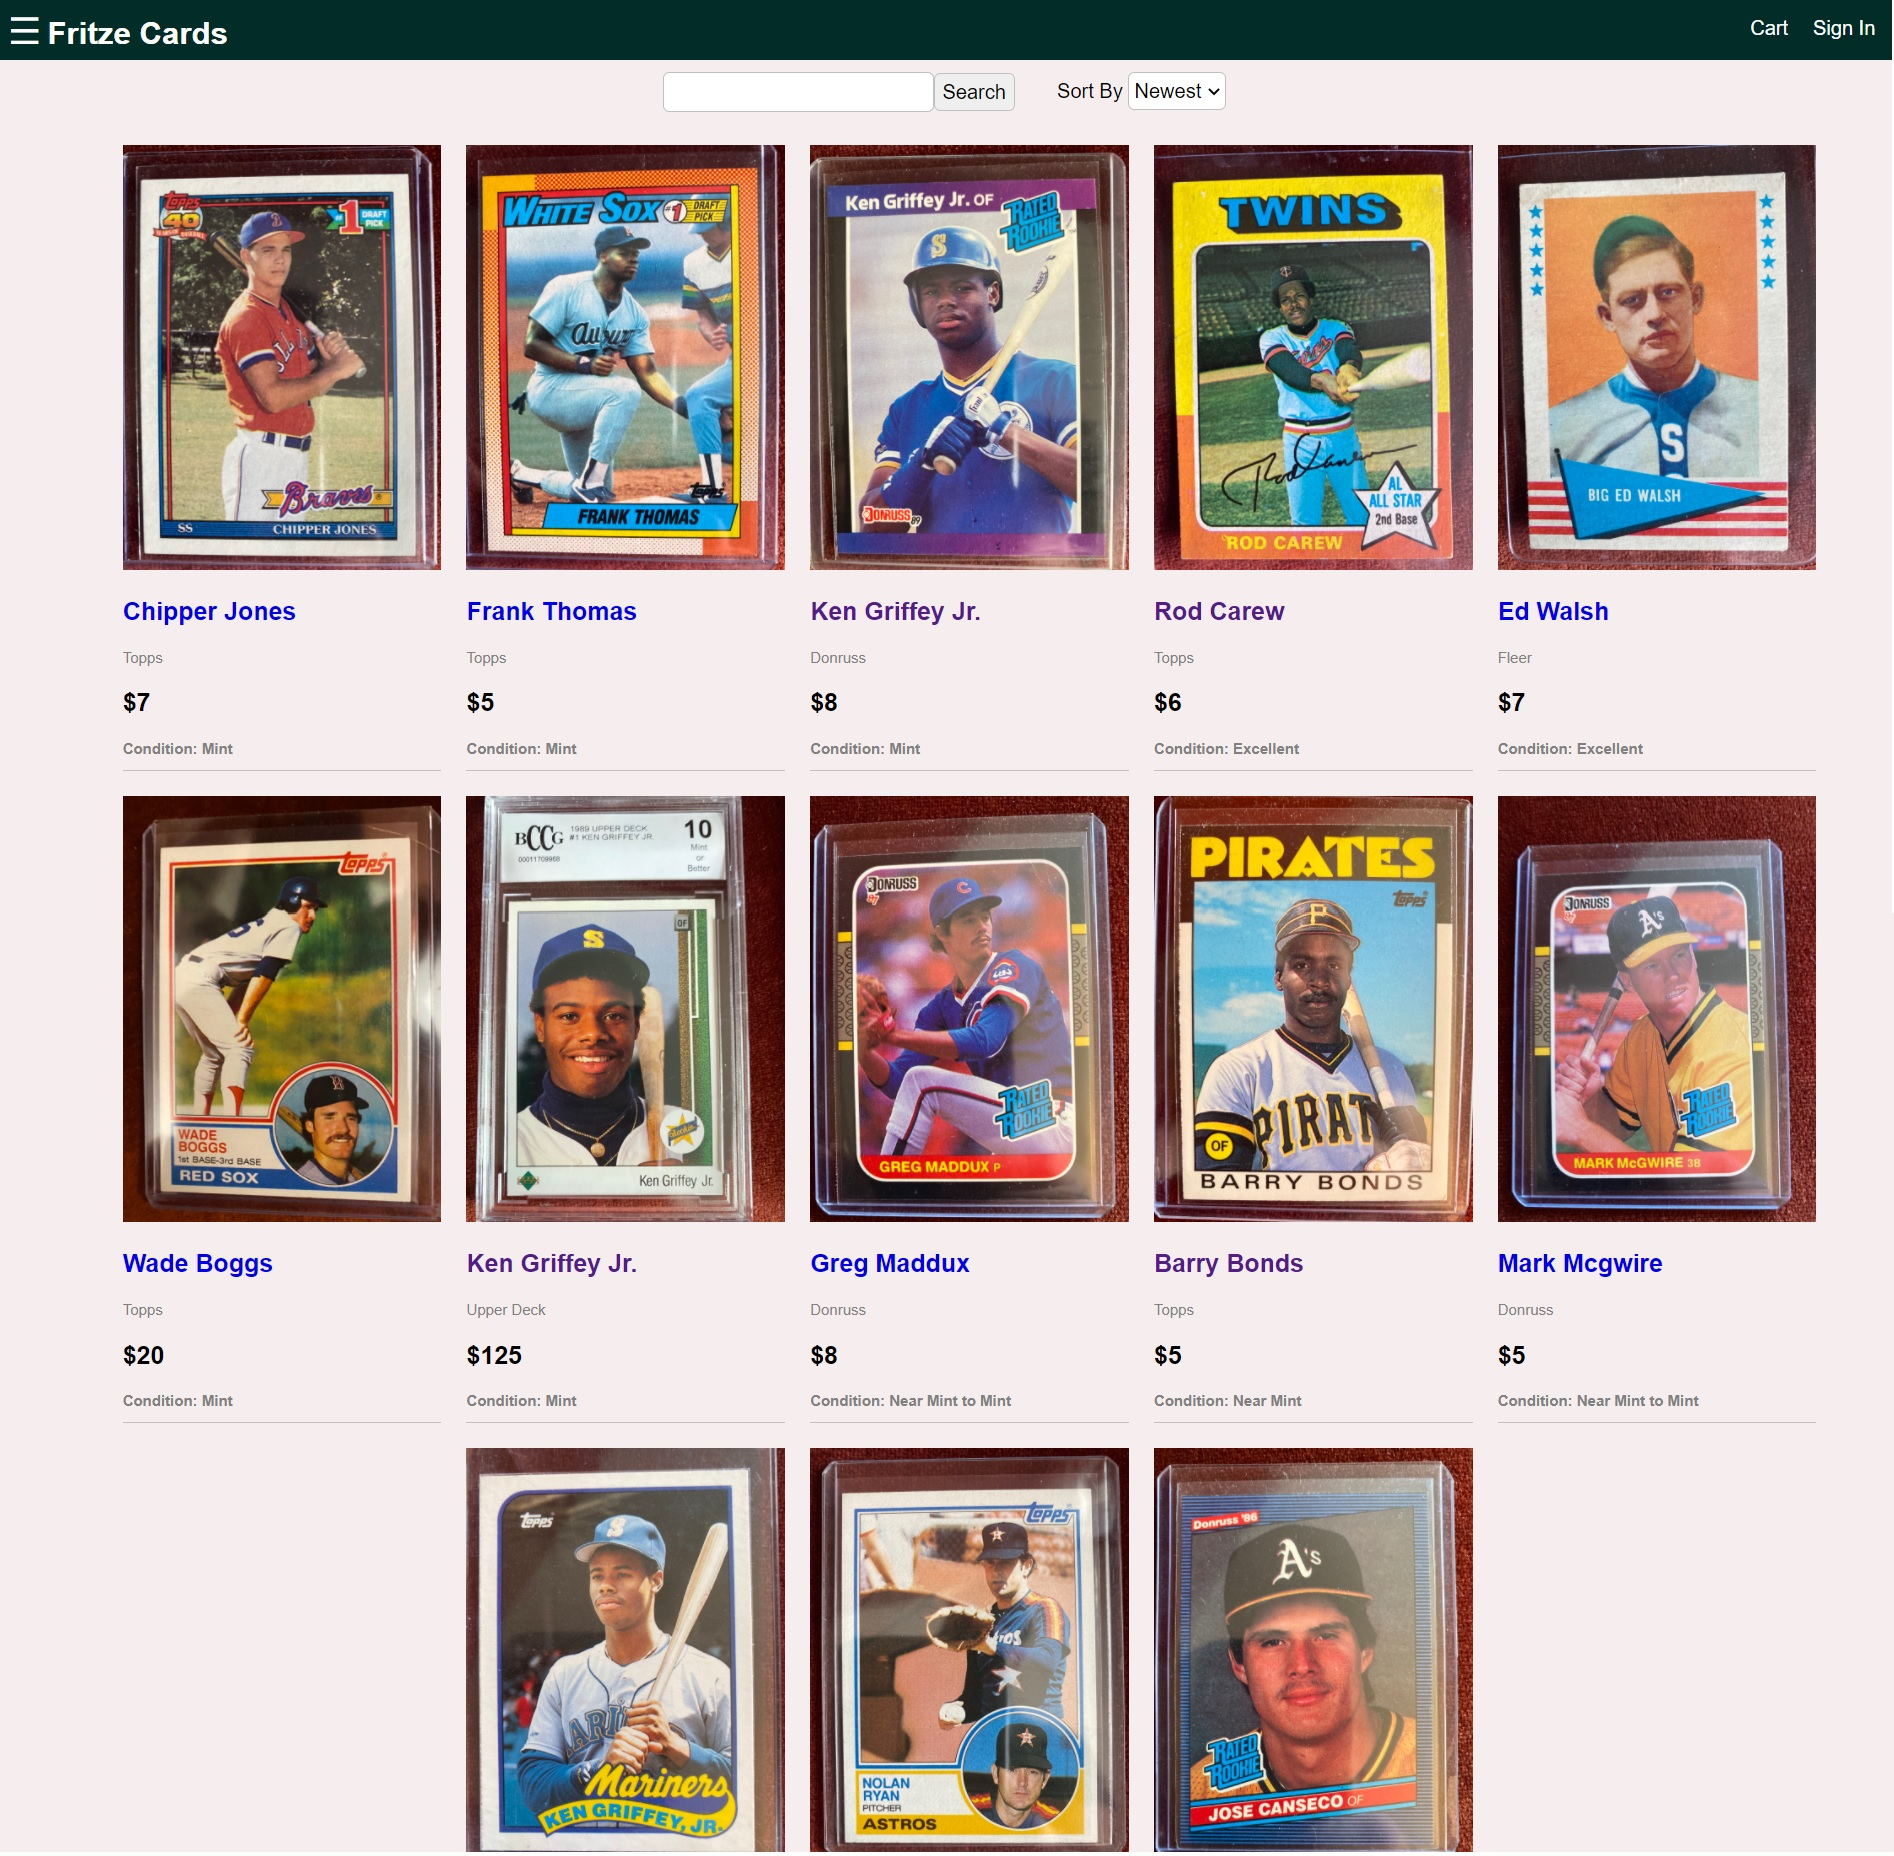
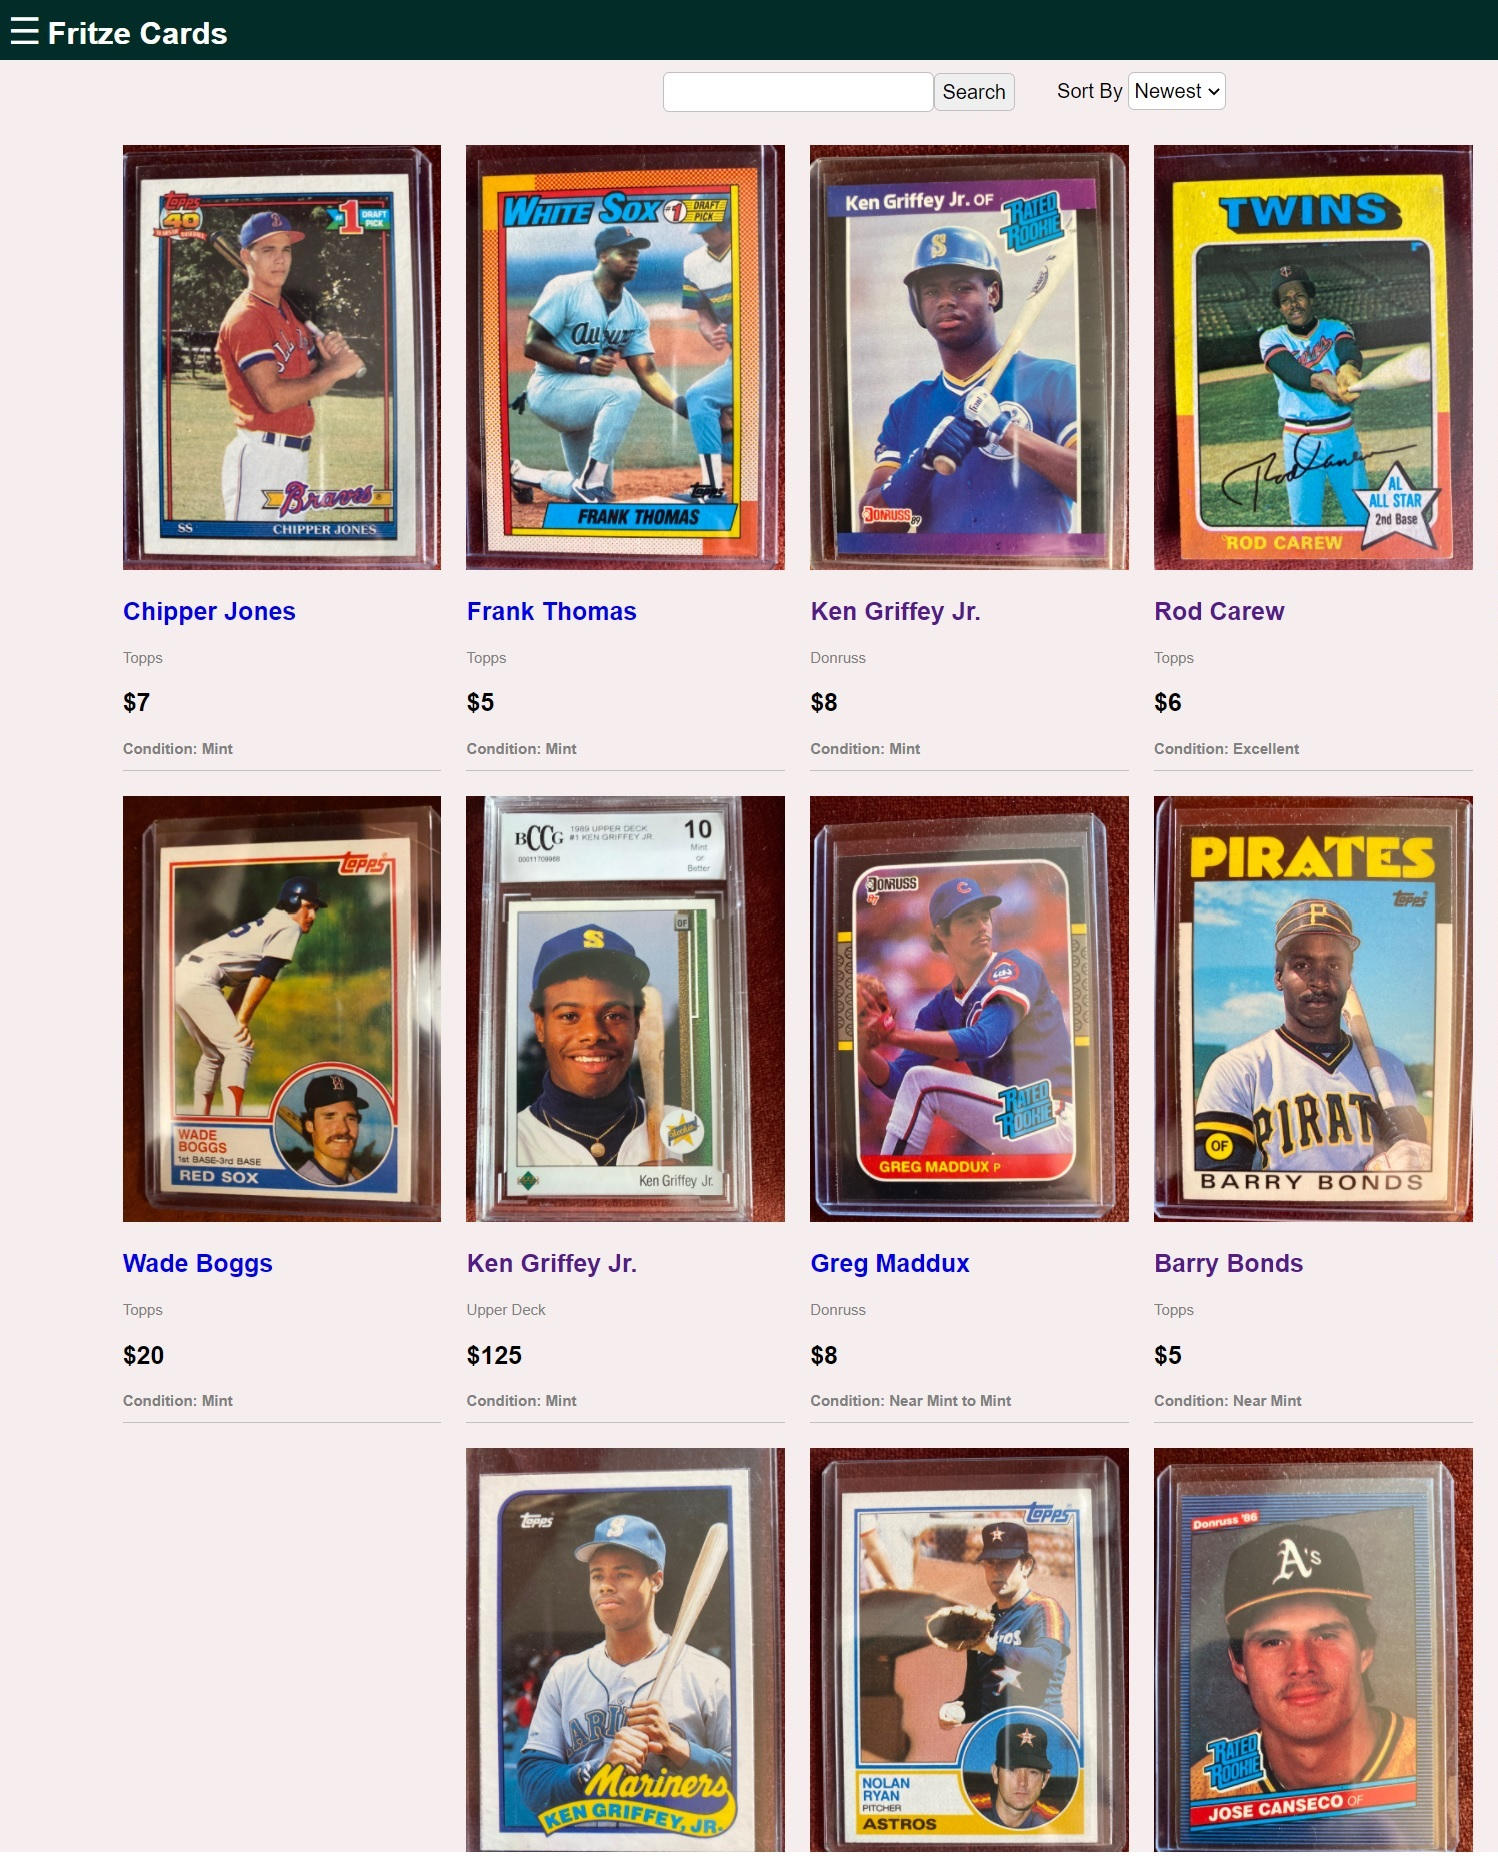
added project baseball

diff --git a/port-site/src/components/Projects.js b/port-site/src/components/Projects.js
@@ -1,6 +1,6 @@
 import React, { Component } from "react";
 import githubPic  from "../assets/github-project.JPG";
-import basbeballPic from "../assets/baseball.JPG"
+import basbeballPic from "../assets/baseball.jpg"
 import didactPic from "../assets/didact.JPG";
 import africaPic from "../assets/africa.JPG";
 import valpoPic from "../assets/valpo.jpg";
@@ -36,8 +36,10 @@ class Projects extends Component {
             <CardTitle
               style={{
                 color: "#000",
-                height: "376px",
-                width: "500px",
+                height: "276px",
+                width: "100%",
+                
+                
                 background: `url(${basbeballPic})`,
                 backgroundRepeat: "no-repeat",
                 backgroundSize: "cover",
@@ -49,17 +51,14 @@ class Projects extends Component {
             </CardTitle>
             <CardText>
               <h4>Fritze Cards</h4>
-              <p>MERN stack - ecommcerce application using React / Node / MongoDB. This is a content management system app with hierarchical user roles (Owner, Admin, Moderator, User).</p>  
-              <p>Frontend - Redux, Axios, MixPanel, Cypress, Material UI, and Styled Components. 
-              Backend - PostgreSQL, Express, Helmet, Cors, Cloudinary, Multer, Nodemon, Bycrypt, Jest, Supertest. </p>
+              <p>MERN stack - ecommcerce application using React / Node / MongoDB. Admin User and General Users.</p>  
+              <p>Other tech used: PayPal, Axios, Express, Mongoose, Nodemon, & Babel</p>
             </CardText>
             <CardActions border>
               <Button colored 
-                href="https://github.com/Lfritze/didact-fe"
-                target="_blank">GitHub FE</Button>
-              <Button colored href="https://github.com/Lfritze/didact-be"
-                target="_blank">Github BE</Button>
-              <Button colored href="https://didactlmsfe.netlify.com/"
+                href="https://github.com/Lfritze/jayrow"
+                target="_blank">GitHub</Button>
+                <Button colored href="https://fritze-cards.herokuapp.com/"
                 target="_blank">Live Demo</Button>
             </CardActions>
             
